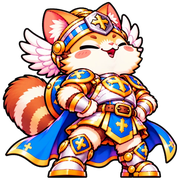
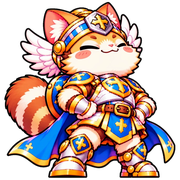
Proud: closed mouth only, gentle breathing
Claude-Session: https://claude.ai/code/session_01CqN5TM8CtnKZx6KMXb1z93

diff --git a/line-stickers/animated-emoji/14-proud/make_proud.py b/line-stickers/animated-emoji/14-proud/make_proud.py
@@ -1,0 +1,38 @@
+"""Proud: stands tall and confident, mouth closed, slow breathing.
+Kling opened his mouth in frames ~12-54, so only closed-mouth frames 1-10 are used (ping-pong),
+plus a gentle breathing stretch in code: up to 2% taller, anchored at the feet. 2 s loop x 2."""
+import sys, os, math
+from PIL import Image
+SRC, OUT = sys.argv[1], sys.argv[2]
+W, LOOP_MS, N, BREATH = 540, 2000, 20, 0.02
+SEQ = [1, 2, 3, 4, 5, 6, 7, 8, 9, 10, 10, 9, 8, 7, 6, 5, 4, 3, 2, 1]
+durs = [LOOP_MS // N] * N
+src = {i: Image.open(f"{SRC}/{i:03d}.png") for i in set(SEQ)}
+bbs = [src[i].getbbox() for i in src]
+box = (min(b[0] for b in bbs), min(b[1] for b in bbs), max(b[2] for b in bbs), max(b[3] for b in bbs))
+s = (W - 12) / ((box[3] - box[1]) * (1 + BREATH))          # leave room for the tallest breath
+cw, ch = round((box[2]-box[0])*s), round((box[3]-box[1])*s)
+out = []
+for k, i in enumerate(SEQ):
+    b = 1 + BREATH * (1 - math.cos(2 * math.pi * k / N)) / 2  # in at the middle, out at the ends
+    h = round(ch * b)
+    m = src[i].crop(box).convert('RGBa').resize((cw, h), Image.LANCZOS).convert('RGBA')
+    c = Image.new('RGBA', (W, W), (0, 0, 0, 0))
+    c.alpha_composite(m, ((W - cw) // 2, W - 6 - h))        # feet stay on the same line
+    out.append(c)
+
+def save(frs, path, durs, loop):
+    sz = frs[0].width
+    tall = Image.new('RGBA', (sz, sz*len(frs))); [tall.paste(f, (0, sz*i)) for i, f in enumerate(frs)]
+    P = tall.quantize(colors=256, method=Image.Quantize.FASTOCTREE, dither=Image.Dither.NONE)
+    q = [P.crop((0, sz*i, sz, sz*i+sz)) for i in range(len(frs))]
+    for x in q: x.info = dict(P.info)
+    q[0].save(path, save_all=True, append_images=q[1:], duration=durs, loop=loop, disposal=0, blend=0, optimize=True)
+    print(os.path.basename(path), len(frs), 'frames', sum(durs), 'ms x', loop, os.path.getsize(path)//1024, 'KB')
+
+os.makedirs(f"{OUT}/frames", exist_ok=True)
+for f in os.listdir(f"{OUT}/frames"): os.remove(f"{OUT}/frames/{f}")
+f180 = [o.convert('RGBa').resize((180, 180), Image.LANCZOS).convert('RGBA') for o in out]
+for i, f in enumerate(f180): f.save(f"{OUT}/frames/{i+1:02d}.png")
+save(f180, f"{OUT}/proud.png", durs, 2)
+save([o.convert('RGBa').resize((360, 360), Image.LANCZOS).convert('RGBA') for o in out], f"{OUT}/preview-proud.png", durs, 0)
